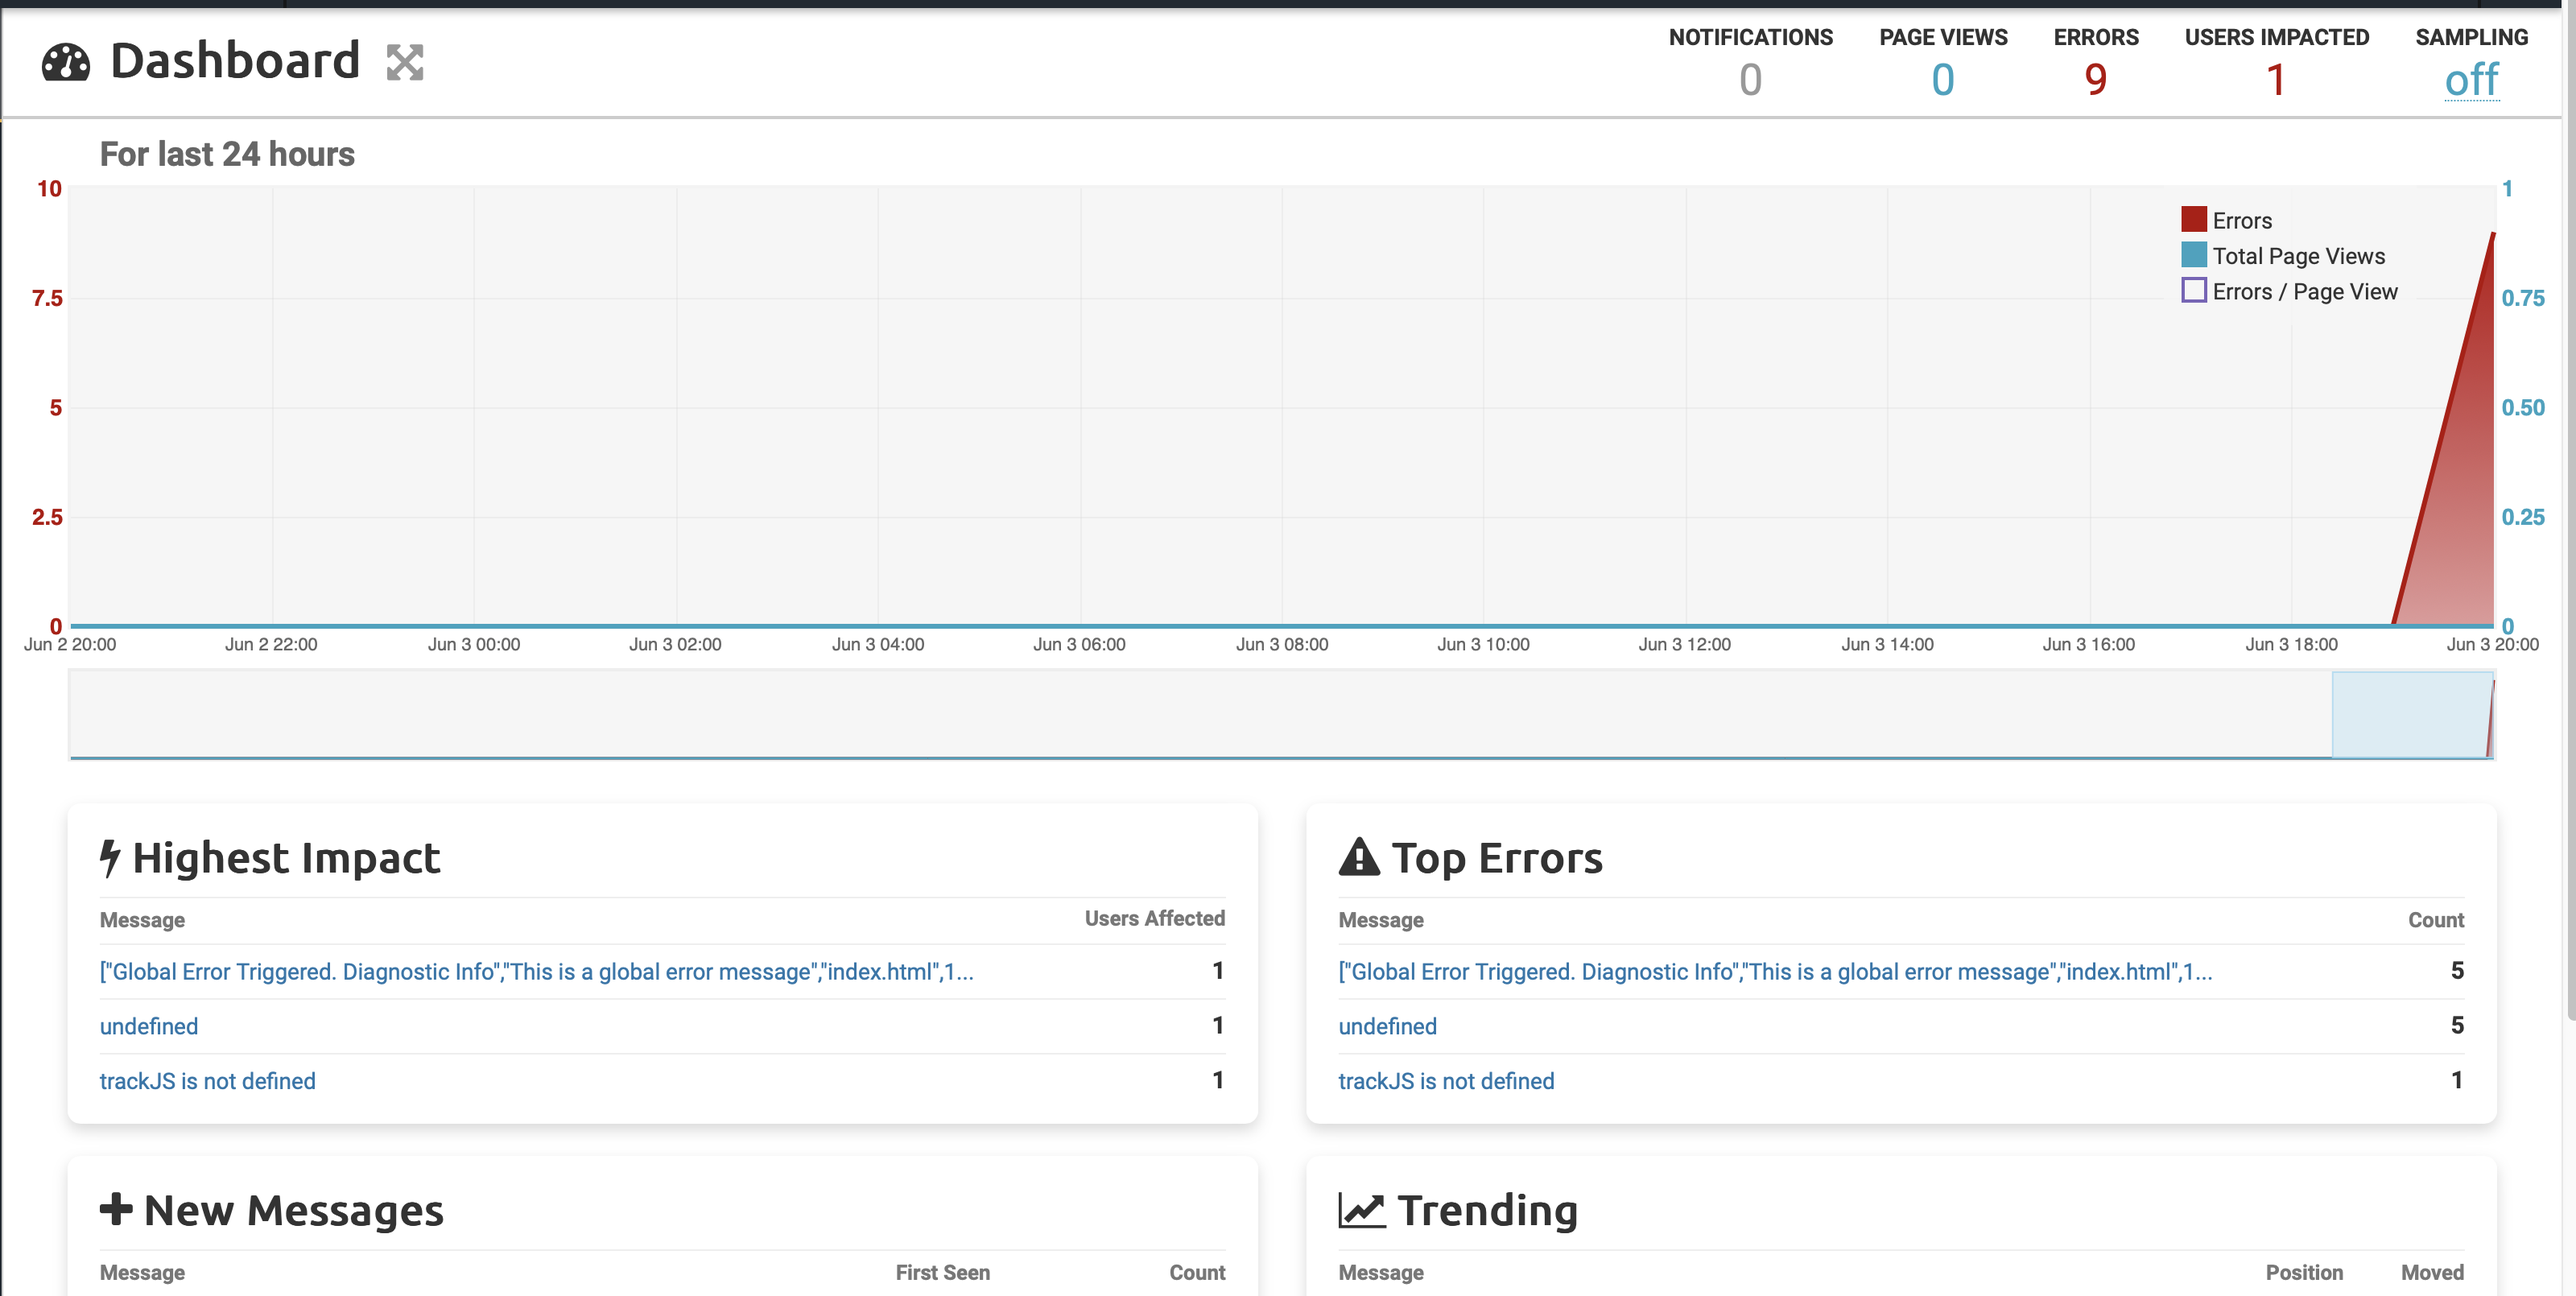
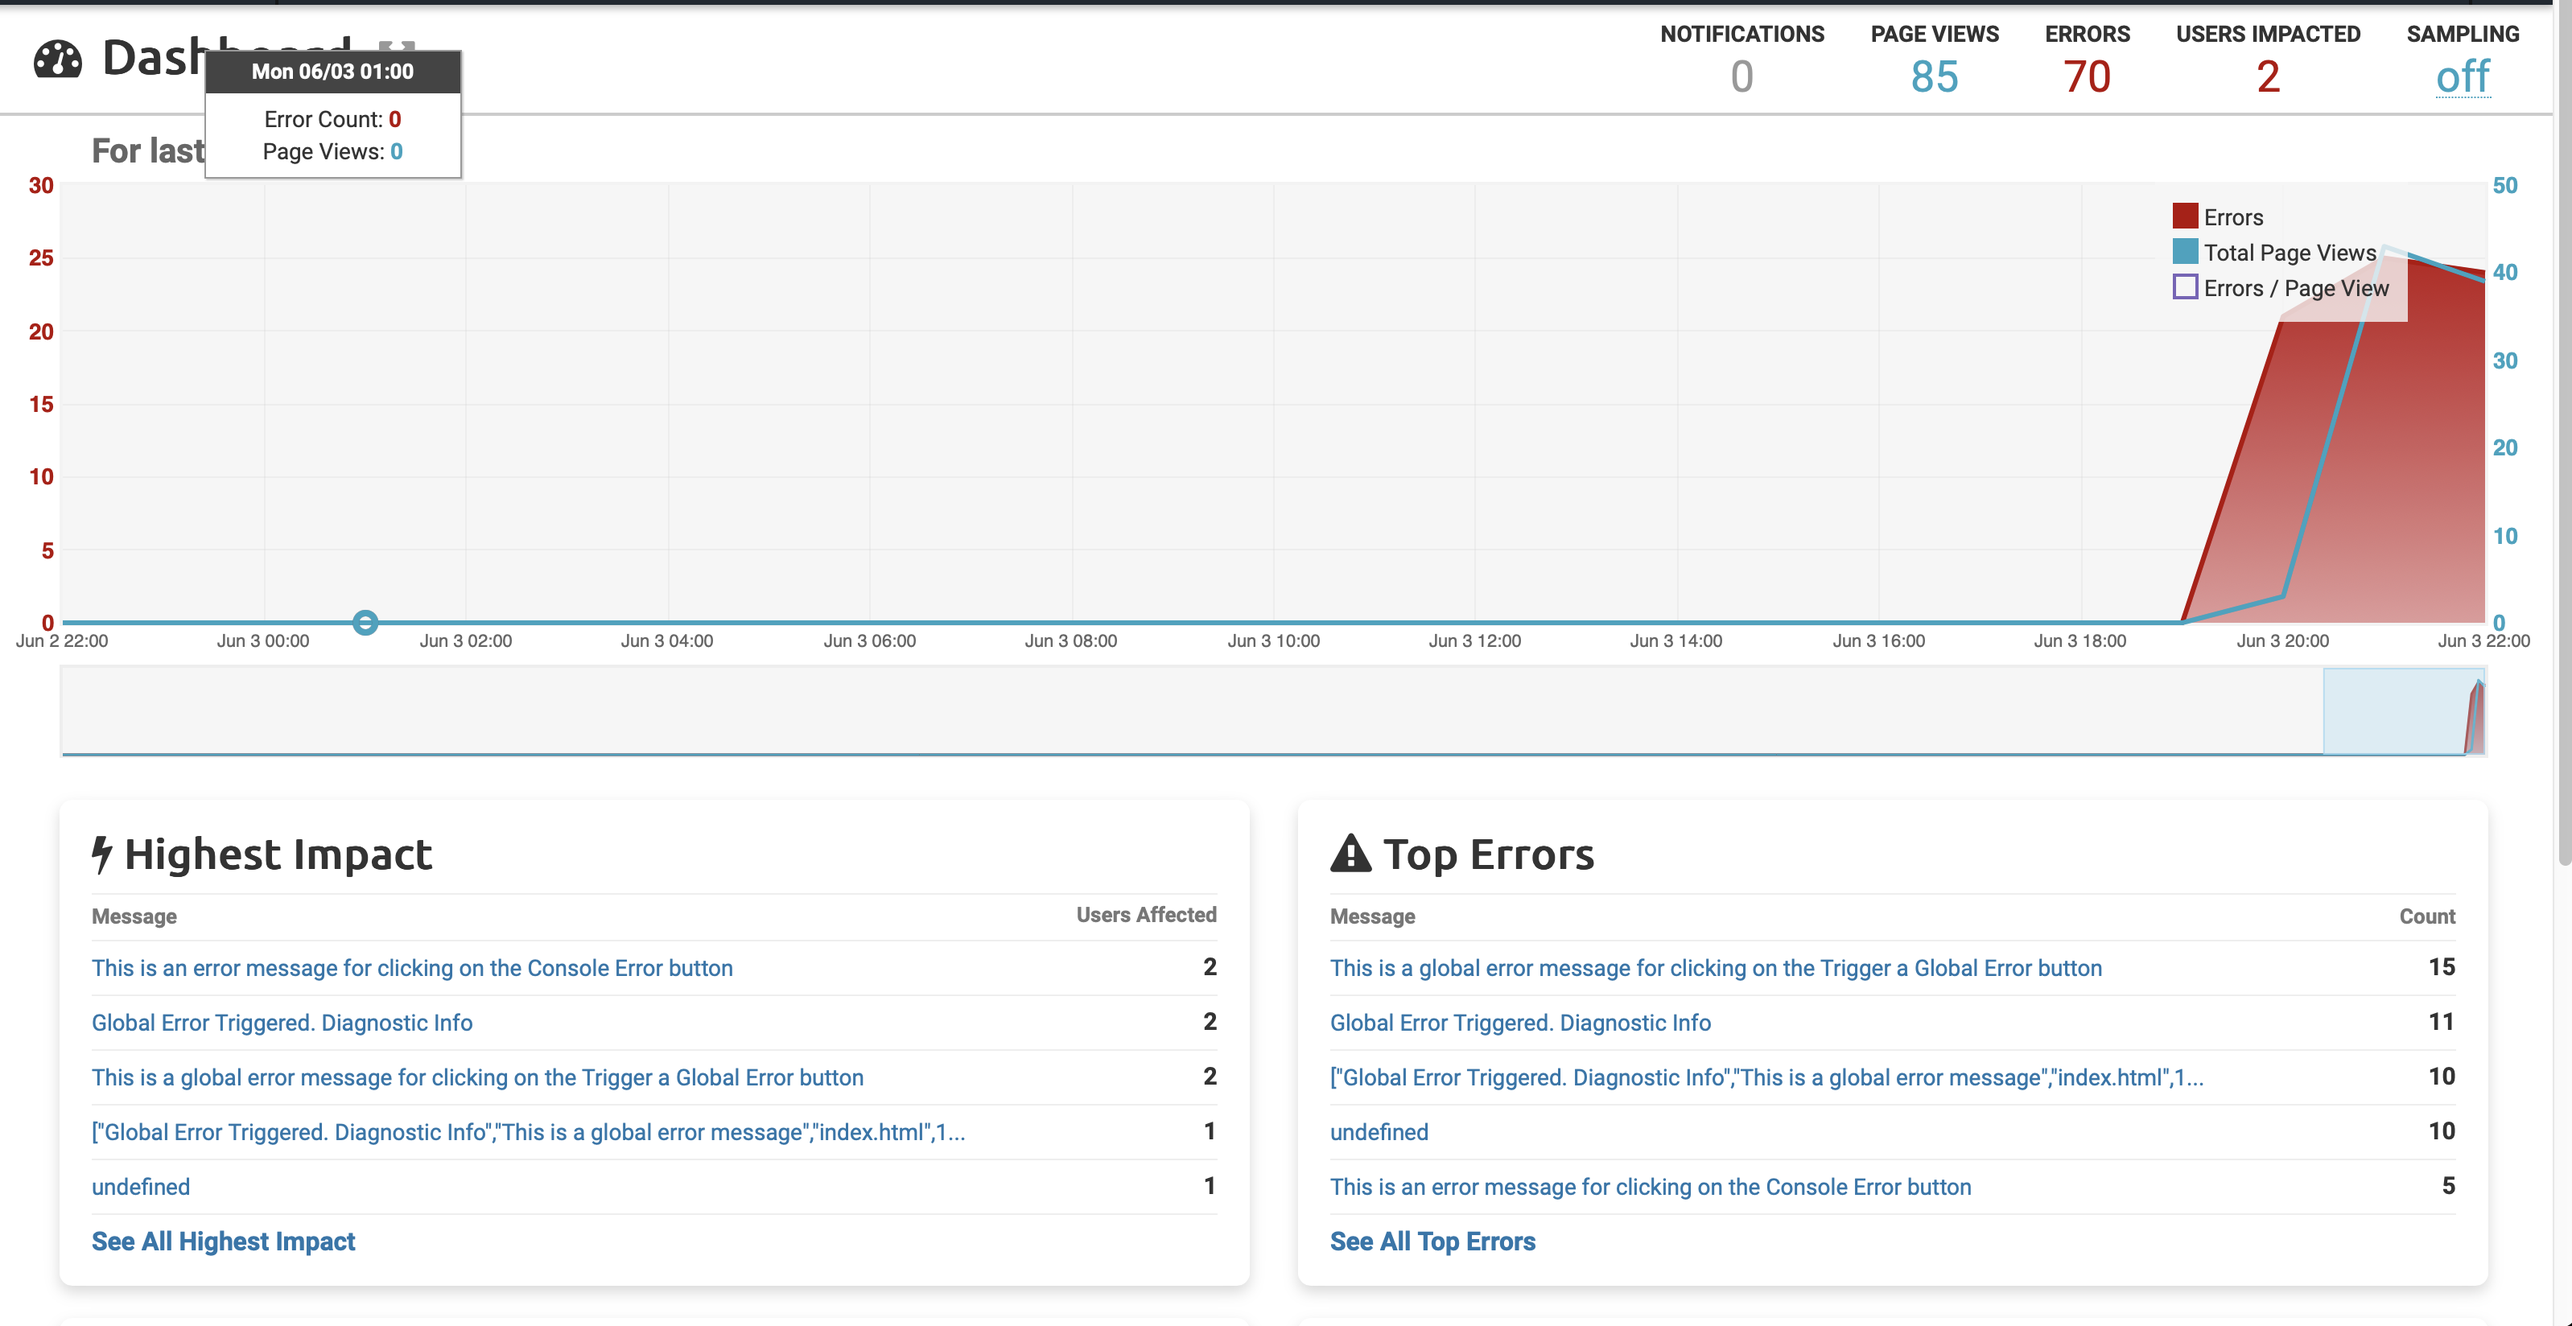
Modified window.onerror to properly catch error.

diff --git a/index.html b/index.html
@@ -113,6 +113,9 @@
         if(isNaN(firstNum) || isNaN(secondNum)) {
           throw new CustomError('Please enter valid numbers, numbers passed in are not valid');
         }
+        else if(operator === '/' && secondNum == 0) {
+          throw new CustomError('Cannot divide by zero');
+        }
         output.innerHTML = eval(`${firstNum} ${operator} ${secondNum}`);
       } catch (error) {
         if(error instanceof CustomError) {
@@ -211,15 +214,18 @@
     //trigger a global error event listener
     window.TrackJS && TrackJS.install({
         token: "c422f42ed5fb4e41a2293c8eaf1a58b0",
-        application: "cse110-lab9"
+        application: "cse110-lab9-2"
     });
-    window.onerror = () => {
-        console.error('Global Error Triggered. Diagnostic Info');
-        
-    }
     errorBtns[14].addEventListener('click', () => {
 
-        throw new Error('This is a global error message for clicking on the Trigger a Global Error button');
+
+        window.onerror = Error('This is the global error message');
+        if(window.onerror){
+          //console.warn('This is the global error message as it is caught by the window object');
+          TrackJS.track('This is the global error message as it is caught by the TrackJS library');
+        }else {
+          console.error('No global error present');
+        }
     });
     
     // You may move this JS to another file if you wish
